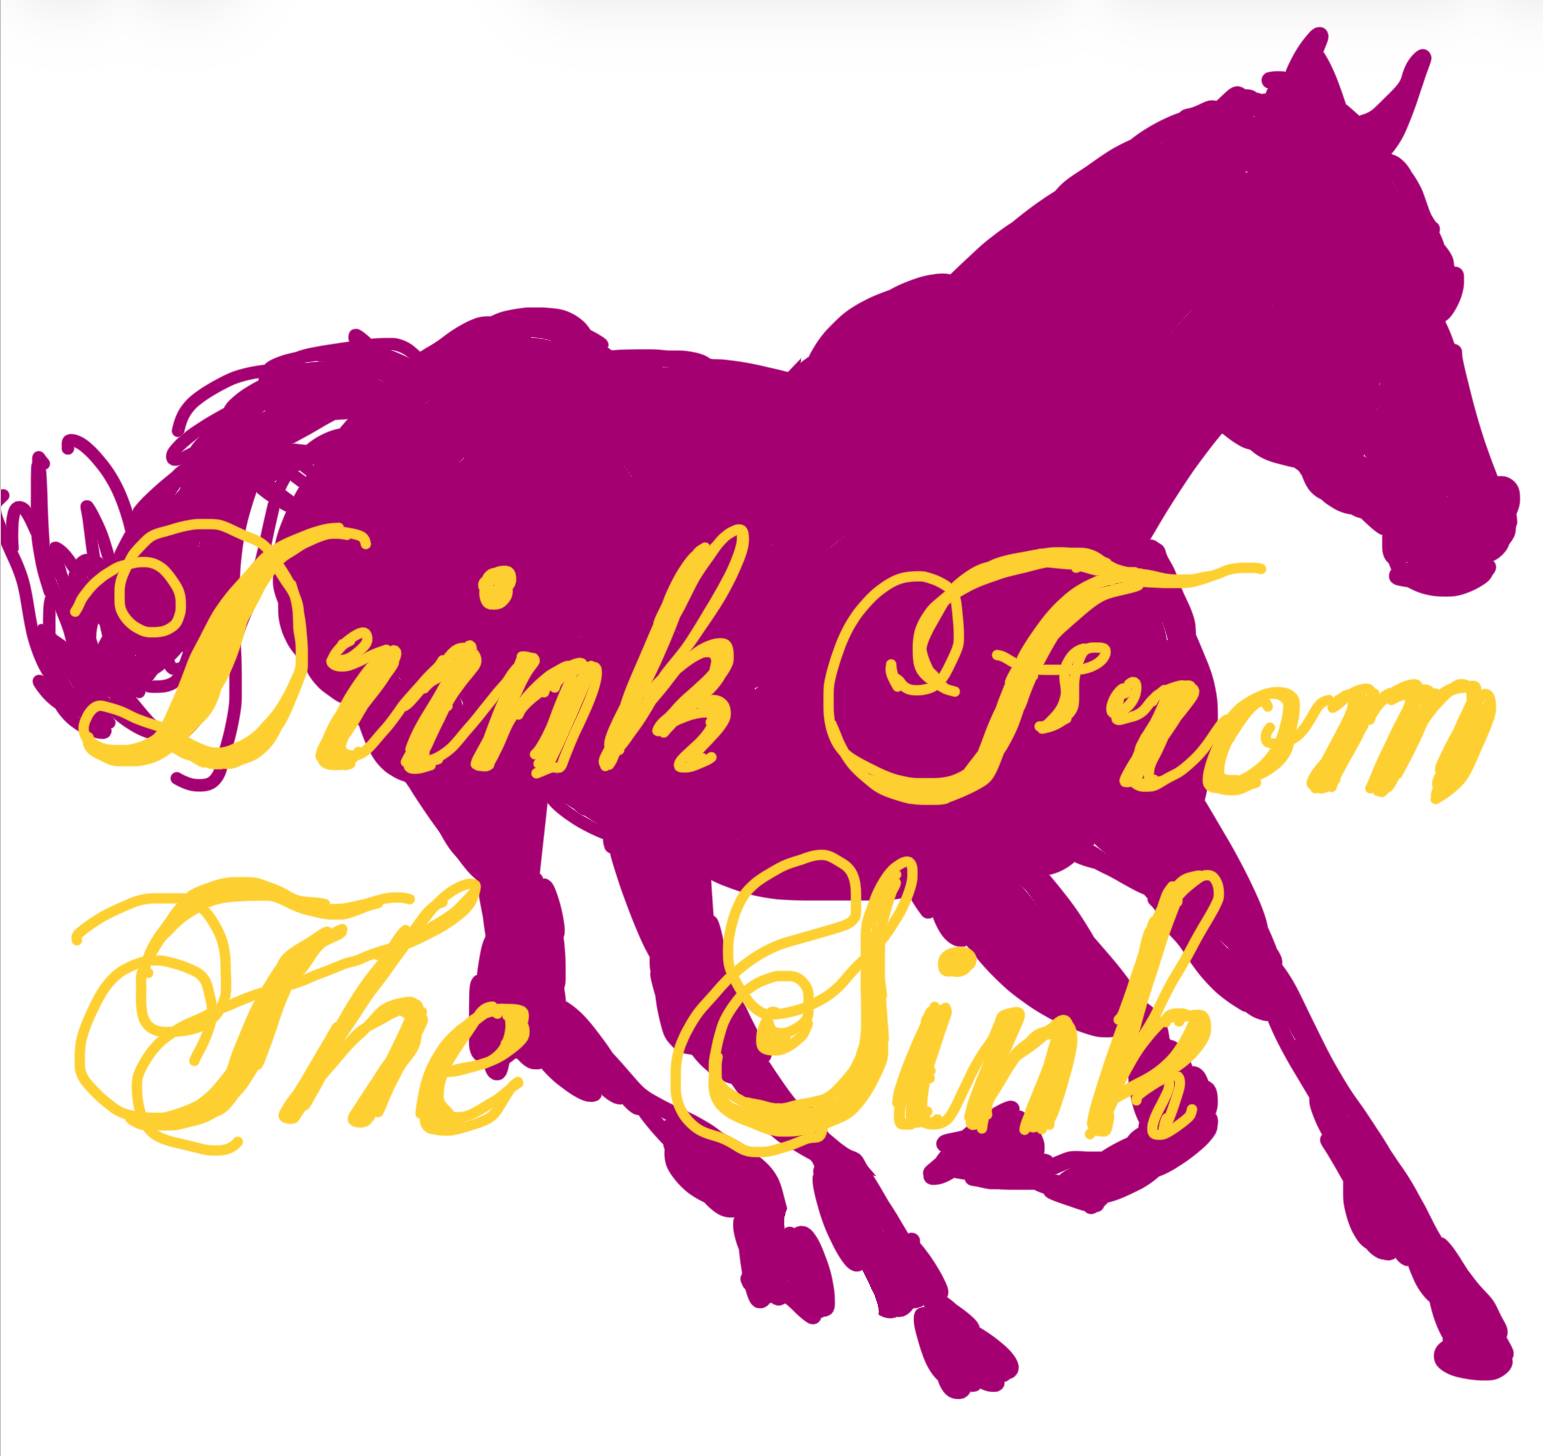
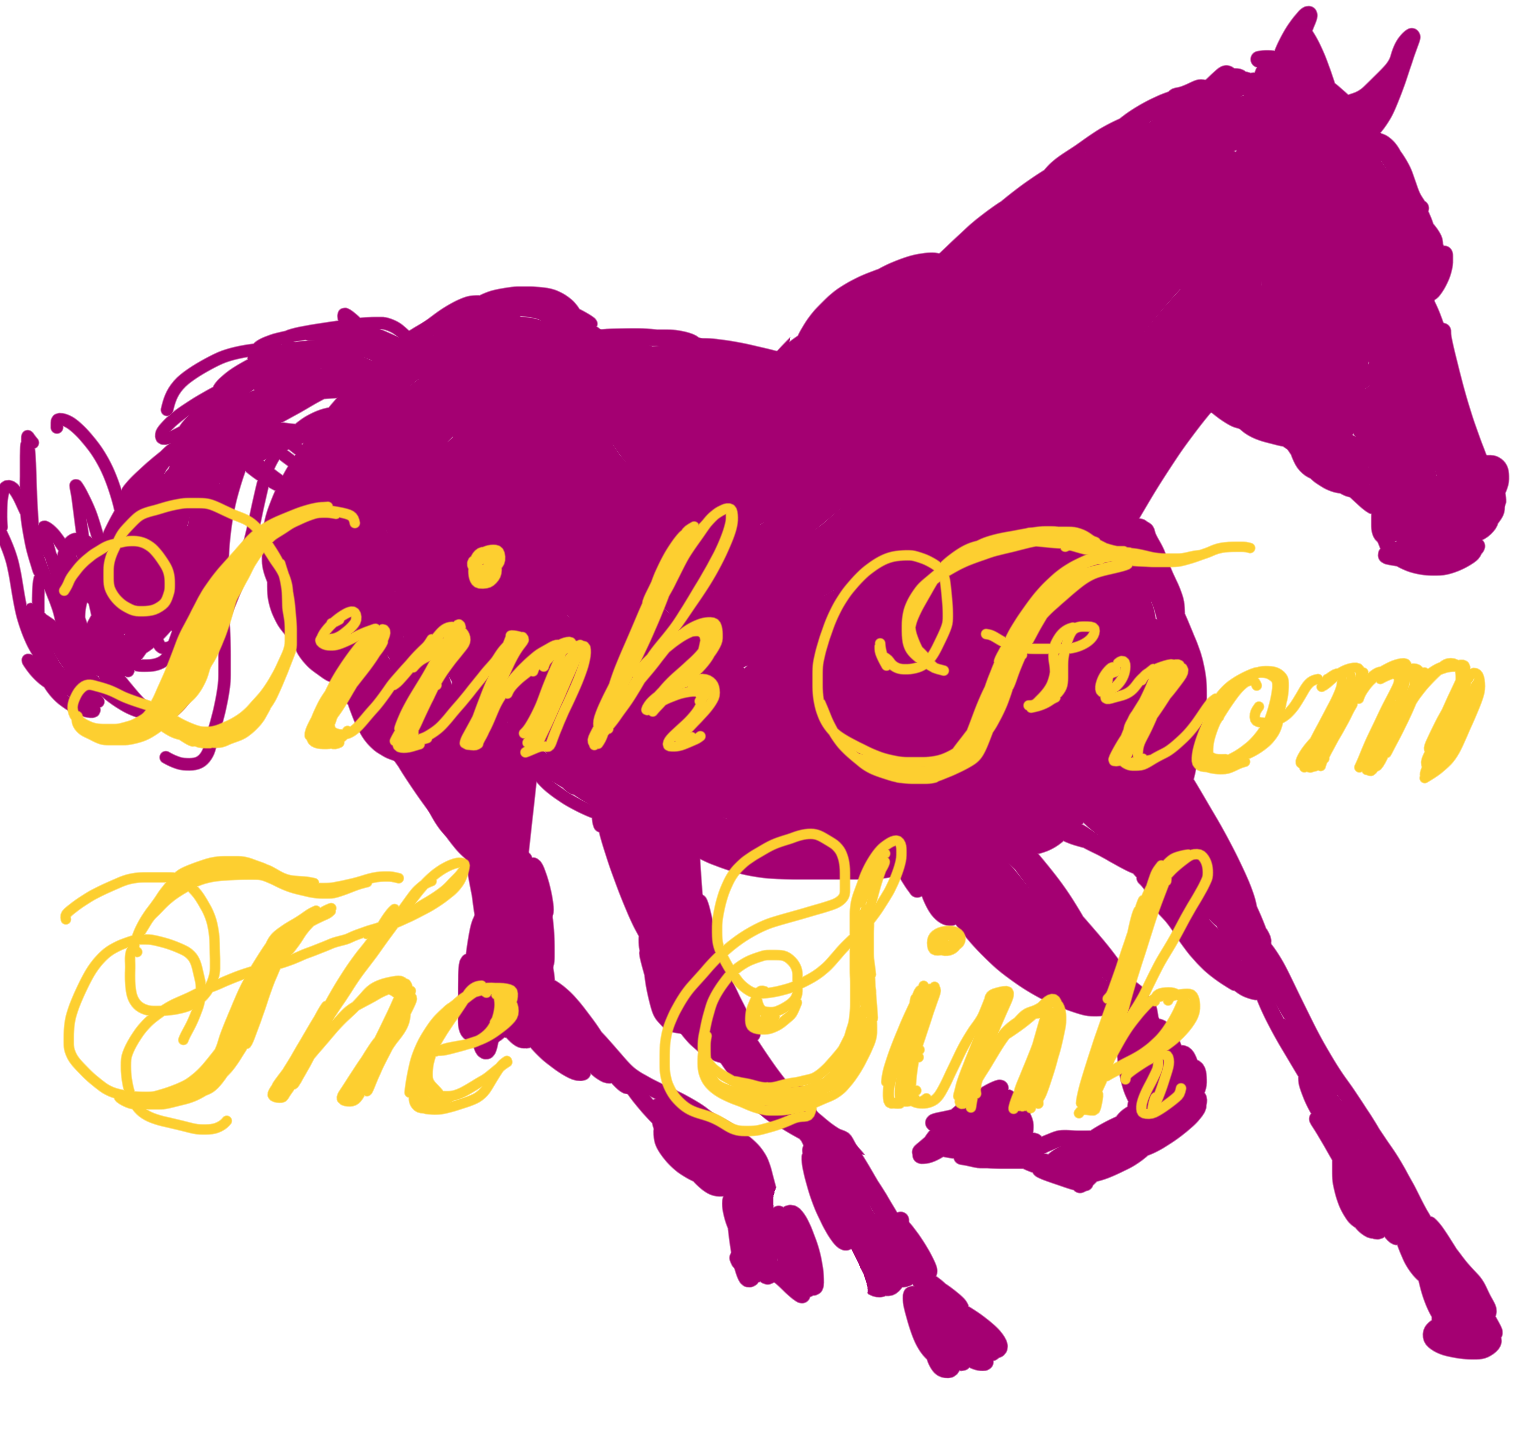
update

diff --git a/about.html b/about.html
@@ -109,8 +109,8 @@
 
     .about-hero {
       position: relative;
-      min-height: 760px;
-      margin-bottom: 90px;
+      min-height: 555px;
+      margin-bottom: 35px;
     }
 
     .about-title {
@@ -128,24 +128,7 @@
 
       color: var(--pink);
     }
-
-    .about-subtitle {
-      position: absolute;
-      left: 12px;
-      top: 245px;
-      z-index: 5;
-
-      margin: 0;
-
-      font-family: "UnifrakturMaguntia", serif;
-      font-size: clamp(48px, 6vw, 90px);
-      line-height: 1;
-      font-weight: 400;
-
-      color: var(--grey);
-    }
-
-    .hero-horse {
+.hero-horse {
       position: absolute;
       right: 10px;
       top: 55px;
@@ -162,7 +145,7 @@
     .hero-label {
       position: absolute;
       right: 30px;
-      top: 465px;
+      top: 360px;
       z-index: 6;
 
       margin: 0;
@@ -177,14 +160,14 @@
 
     .hero-caffeine {
       position: absolute;
-      left: 120px;
-      bottom: 30px;
+      left: 15px;
+      top: 245px;
       z-index: 5;
 
-      width: min(430px, 34vw);
+      width: min(760px, 58vw);
       height: auto;
 
-      transform: rotate(-2deg);
+      transform: none;
     }
 
     /* =========================================================
@@ -193,8 +176,8 @@
 
     .story {
       position: relative;
-      min-height: 610px;
-      margin-bottom: 110px;
+      min-height: 475px;
+      margin-bottom: 55px;
     }
 
     .story-copy {
@@ -250,9 +233,9 @@
 
     .hours {
       position: relative;
-      min-height: 700px;
-      margin-bottom: 110px;
-      padding-top: 40px;
+      min-height: 500px;
+      margin-bottom: 55px;
+      padding-top: 10px;
     }
 
     .section-title {
@@ -325,11 +308,11 @@
       position: relative;
 
       display: grid;
-      grid-template-columns: minmax(330px, .85fr) minmax(420px, 1fr);
-      gap: 80px;
+      grid-template-columns: minmax(420px, .8fr) minmax(460px, 1.2fr);
+      gap: 70px;
       align-items: center;
 
-      margin-bottom: 140px;
+      margin-bottom: 75px;
     }
 
     .gift-copy h2 {
@@ -381,7 +364,10 @@
 
     .gift-art {
       position: relative;
-      min-height: 450px;
+      min-height: 420px;
+      display: flex;
+      align-items: center;
+      justify-content: flex-start;
     }
 
     .gift-art img {
@@ -389,26 +375,19 @@
     }
 
     .gift-sink {
-      right: 0;
-      top: 0;
-      width: min(330px, 24vw);
-      transform: rotate(5deg);
+      position: relative;
+      right: auto;
+      top: auto;
+      width: min(470px, 34vw);
+      transform: none;
     }
-
-    .gift-caffeine {
-      left: -15px;
-      bottom: 10px;
-      width: min(440px, 32vw);
-      transform: rotate(-3deg);
-    }
-
-    /* =========================================================
+/* =========================================================
        FAQ — NO WINDOWS/CARDS, JUST LARGE CLICKABLE TYPE
     ========================================================= */
 
     .faq {
       position: relative;
-      margin-bottom: 120px;
+      margin-bottom: 75px;
     }
 
     .faq .section-title {
@@ -479,22 +458,7 @@
     .faq-item.open .faq-answer {
       display: block;
     }
-
-    .faq-art {
-      position: absolute;
-      right: -50px;
-      top: -50px;
-      z-index: 1;
-
-      width: min(390px, 29vw);
-      height: auto;
-
-      transform: rotate(4deg);
-      opacity: .92;
-      pointer-events: none;
-    }
-
-    /* =========================================================
+/* =========================================================
        ALLERGEN ENDING — REUSES DRINKS' ALLERGEN COLORS
     ========================================================= */
 
@@ -590,7 +554,7 @@
       }
 
       .about-hero {
-        min-height: 660px;
+        min-height: 540px;
       }
 
       .about-title {
@@ -609,7 +573,9 @@
 
       .hero-caffeine {
         left: 0;
-        width: 65vw;
+        top: 245px;
+        width: 92vw;
+        transform: none;
       }
 
       .hero-label {
@@ -619,7 +585,7 @@
       }
 
       .story {
-        min-height: 760px;
+        min-height: 650px;
       }
 
       .story-copy {
@@ -659,28 +625,21 @@
       }
 
       .gift-art {
-        min-height: 390px;
+        min-height: 330px;
+        justify-content: center;
+      }
+
+      .gift-sink {
+        width: min(440px, 82vw);
       }
 
       .gift-sink {
         width: 54vw;
       }
-
-      .gift-caffeine {
-        width: 75vw;
-      }
-
-      .faq-list {
+.faq-list {
         width: 100%;
       }
-
-      .faq-art {
-        opacity: .22;
-        width: 70vw;
-        right: -25vw;
-      }
-
-      .allergen-inner {
+.allergen-inner {
         width: min(100% - 32px, 1200px);
       }
     }
@@ -707,23 +666,12 @@
       <h1 class="about-title">
         ABOUT US
       </h1>
-
-      <p class="about-subtitle">
-        The Sink
-      </p>
-
-      <!-- Add your black horse image to images/about-horse-black.jpg -->
+<!-- Add your black horse image to images/about-horse-black.jpg -->
       <img
         class="hero-horse"
         src="images/about-horse-black.jpg"
         alt=""
       />
-
-      <p class="hero-label">
-        STUDENT RUN<br>
-        TUFTS UNIVERSITY<br>
-        COFFEE + COMMUNITY
-      </p>
 
       <img
         class="hero-caffeine"
@@ -803,6 +751,16 @@
 
     <section class="gift">
 
+      <div class="gift-art">
+
+        <img
+          class="gift-sink"
+          src="images/the-sink-black.png"
+          alt=""
+        />
+
+      </div>
+
       <div class="gift-copy">
 
         <h2>
@@ -826,22 +784,6 @@
 
       </div>
 
-      <div class="gift-art">
-
-        <img
-          class="gift-sink"
-          src="images/the-sink-black.png"
-          alt=""
-        />
-
-        <img
-          class="gift-caffeine"
-          src="images/caffeine.png"
-          alt=""
-        />
-
-      </div>
-
     </section>
 
 
@@ -850,14 +792,7 @@
       <h2 class="section-title">
         FAQ
       </h2>
-
-      <img
-        class="faq-art"
-        src="images/cup.png"
-        alt=""
-      />
-
-      <div class="faq-list">
+<div class="faq-list">
 
         <article class="faq-item">
           <button class="faq-question" type="button">
